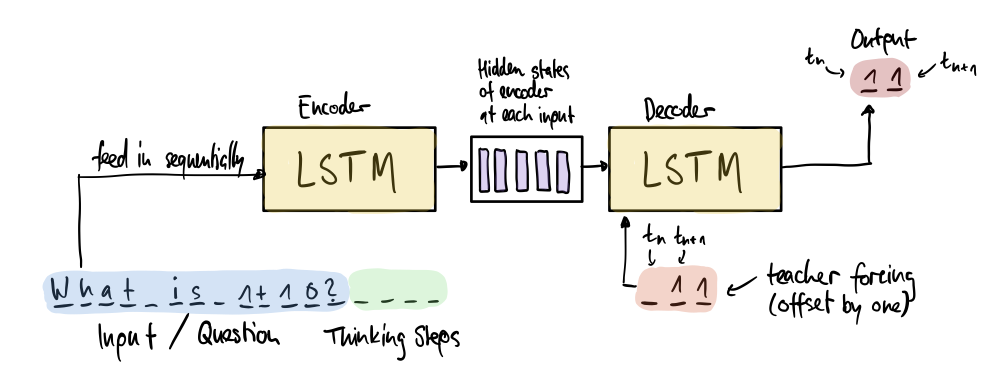
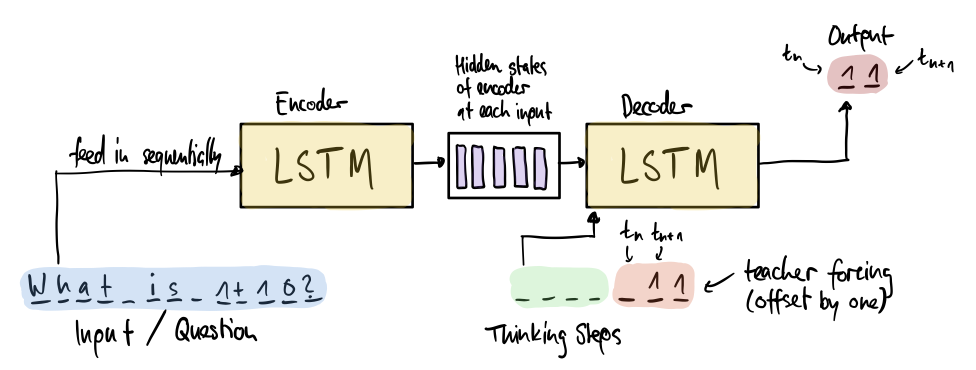
chore: update figures in readme and add explanation

Changed region(s): [[0.0615, 0.0595, 0.9836, 0.8622], [0.0, 0.6541, 0.4611, 0.9514], [0.4918, 0.8622, 0.6455, 0.9811]]

diff --git a/README.md b/README.md
@@ -17,7 +17,7 @@ published results and are therefore confident we could match the performance at 
 We built a custom Keras data generator to encode the input and output texts on demand during training to save memory.
 Additionally, we provide a set of `make` commands to download and pre-process the data into the needed form.
 
-We used Paperspace to experiment using `Gradient° Notebooks and finally train the models for longer periods with Gradient°
+We used Paperspace to experiment using `Gradient° Notebooks` and finally train the models for longer periods with `Gradient°
 Jobs`.
 
 Finally, we evaluate the training performance on the two provided validation sets `interpolation` and `extrapolation` 
@@ -31,10 +31,15 @@ the next character. The architecture is laid out in the following figure:
 
 ![LSTM](figures/simple-lstm.png "Simple LSTM architecture")
 
-
+We integrated the "thinking steps" and used the same hyperparameters outlined in the paper.
 ### Attentional LSTM
 
+This model is a seq2seq LSTM model therefore follows the encoder/decoder architecture. The whole input is fed through
+encoder and at the end the state is passed to the decoder: 
+
 ![A-LSTM](figures/attentional-lstm.png "Attentional LSTM architecture")
+
+The attention mechanism weights the hidden states passed through the encoder to produce the outputs at each step in the following way:
 
 ![A](figures/attention-mechanism.png "Attentional mechanism")
 
@@ -45,7 +50,7 @@ For a detailed explanation of attentional seq2seq models checkout [this awesome 
 #### Simple LSTM
 
 Investigating the performance of the simple LSTM for all arithmetic sub-tasks reveals that the model
-is still gaining a lot of performance at each epoch. This is true for both the interpolation and the extrapolation set.
+is still gaining a lot of performance at each epoch. This holds for both the interpolation and the extrapolation set.
 
 Interpolation set          |  Extrapolation set
 :-------------------------:|:-------------------------:
